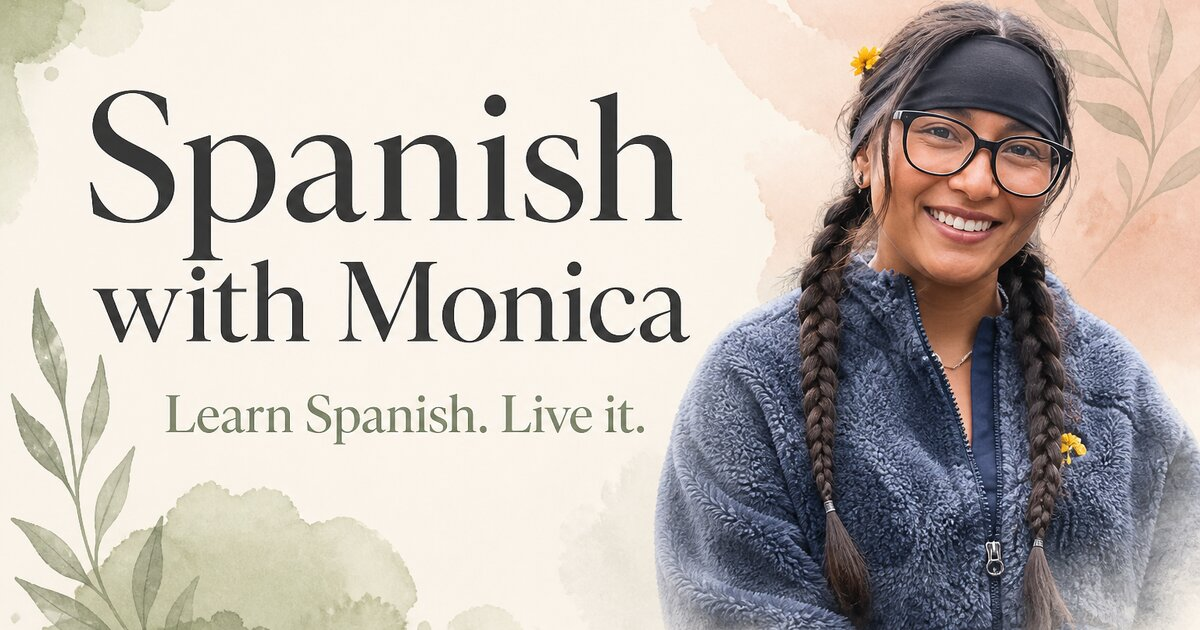
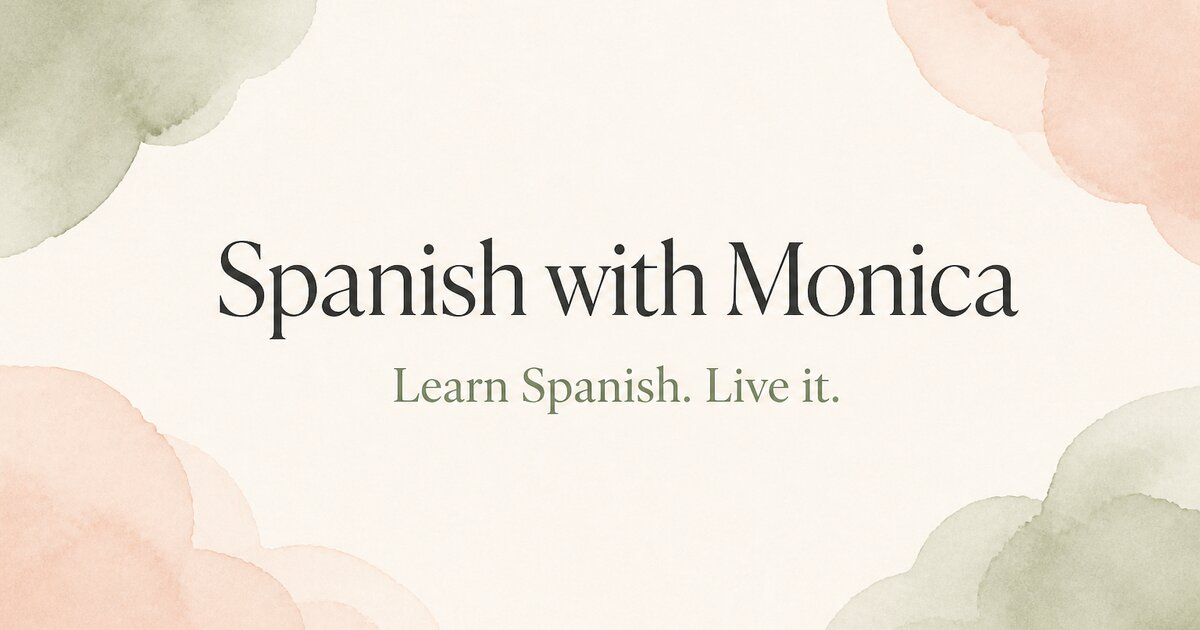
update preview picture

diff --git a/app/layout.tsx b/app/layout.tsx
@@ -27,7 +27,7 @@ export const metadata: Metadata = {
     url: "https://schwedeerik.github.io/spanish-with-monica/",
     images: [
       {
-        url: "https://schwedeerik.github.io/spanish-with-monica/og.jpg?v=6",
+        url: "https://schwedeerik.github.io/spanish-with-monica/og.jpg?v=8",
         width: 1200,
         height: 630,
         alt: "Spanish with Monica, Learn Spanish. Live it.",
@@ -39,7 +39,7 @@ export const metadata: Metadata = {
     title: "Spanish with Monica | Learn Spanish. Live it.",
     description:
       "Personalized Spanish with Mónica, psychologist, teacher, and lifelong learner. Book a lesson and start speaking with confidence.",
-    images: ["https://schwedeerik.github.io/spanish-with-monica/og.jpg?v=6"],
+    images: ["https://schwedeerik.github.io/spanish-with-monica/og.jpg?v=8"],
   },
 };
 
